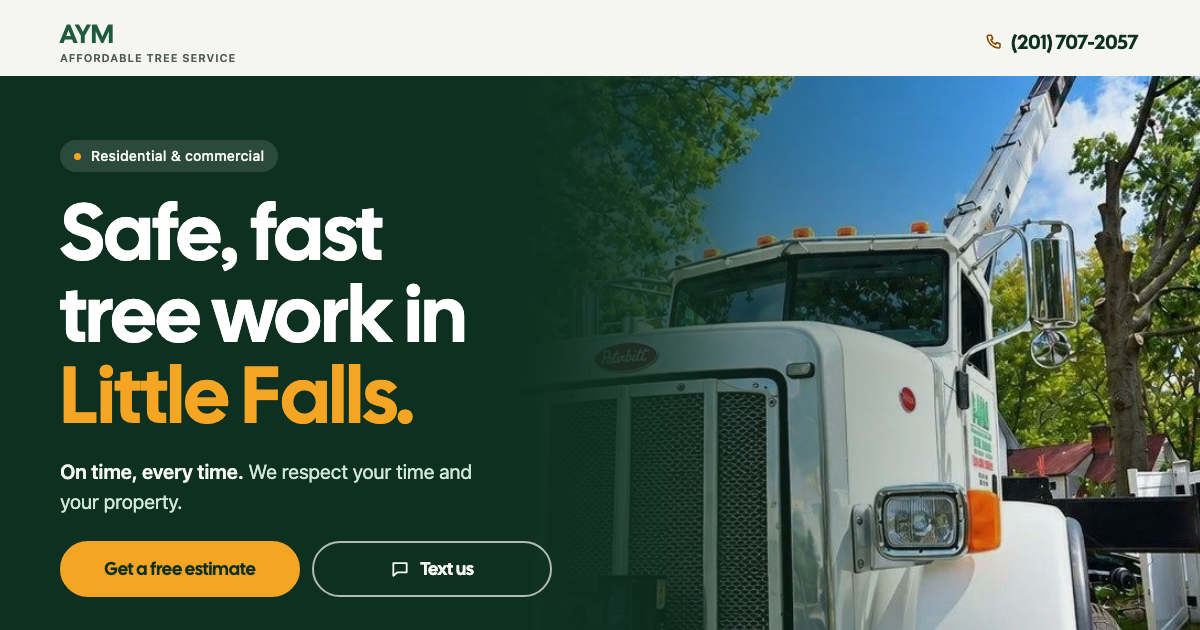
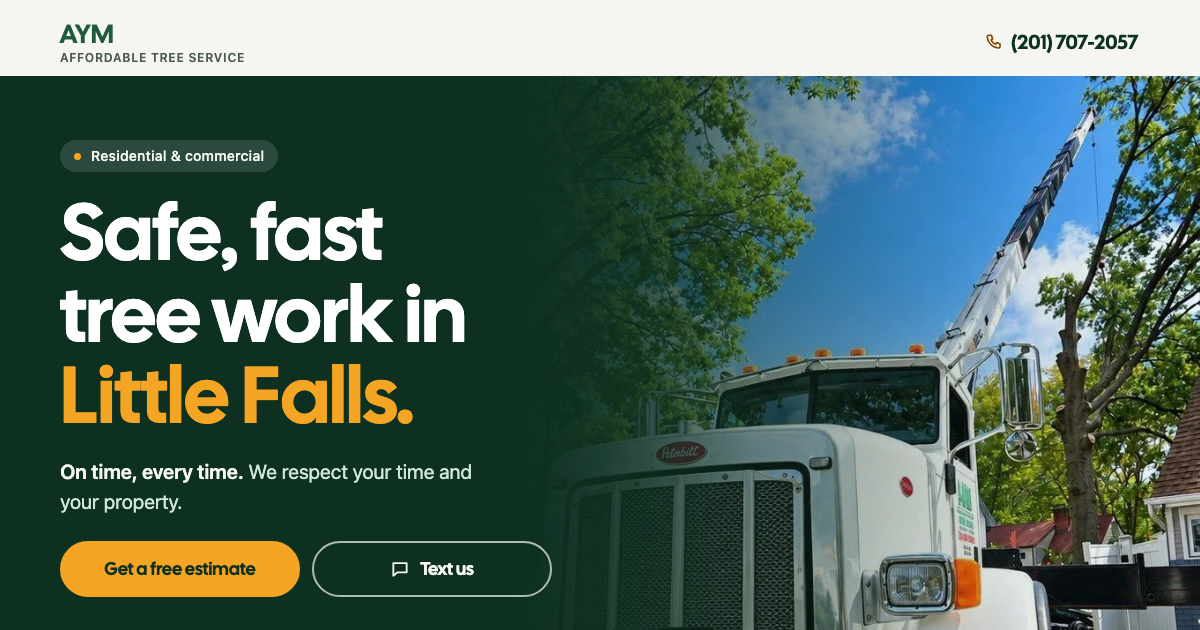
Apply Impeccable sweep: full crane photo, copy-message fallback, 320px header, focus and hover fixes, font-gated bounce-in
Claude-Session: https://claude.ai/code/session_01S1CGLVW6afEPjqbMURtKCW

diff --git a/index.html b/index.html
@@ -89,14 +89,14 @@ section{padding:64px 0}
 .top .wrap{display:flex;align-items:center;justify-content:space-between;gap:12px;min-height:64px;padding-top:max(8px,env(safe-area-inset-top))}
 .brand{display:flex;flex-direction:column;justify-content:center;min-height:44px;text-decoration:none;line-height:1}
 .brand b{font:400 22px/1 var(--display);letter-spacing:.02em;color:var(--green)}
-.brand span{font:600 11px/1 var(--text);letter-spacing:.08em;white-space:nowrap;text-transform:uppercase;color:var(--soft);margin-top:5px}
+.brand span{font:600 12px/1 var(--text);letter-spacing:.06em;white-space:nowrap;text-transform:uppercase;color:var(--soft);margin-top:5px}
 .tel{display:inline-flex;align-items:center;gap:8px;min-height:44px;padding:0 2px;font:400 17px/1 var(--display);text-decoration:none;white-space:nowrap}
 .tel svg{width:18px;height:18px;flex:none;color:var(--amber-ink)}
 
 /* ---------- Hero: their crane truck under a deep-green overlay ---------- */
 .hero{padding:0;position:relative;background:var(--deep);color:var(--on-dark);overflow:hidden;isolation:isolate}
 .hero-art{position:absolute;inset:0;z-index:-2}
-.hero-art img{width:100%;height:100%;object-fit:cover;object-position:58% 40%}
+.hero-art img{width:100%;height:100%;object-fit:cover;object-position:58% 50%}
 .hero::after{content:"";position:absolute;inset:0;z-index:-1;background:linear-gradient(180deg,rgba(14,48,33,.84) 0%,rgba(14,48,33,.76) 50%,rgba(14,48,33,.9) 100%)}
 .hero-copy{display:grid;gap:20px;justify-items:start;padding-top:56px;padding-bottom:64px}
 .hero h1{color:#fff;font-size:clamp(42px,12vw,80px);line-height:1.02;max-width:11ch}
@@ -127,15 +127,16 @@ section{padding:64px 0}
 .points{list-style:none;margin:24px 0 0;padding:0;display:grid}
 .points li{display:flex;align-items:center;gap:14px;padding:12px 0;font:400 clamp(19px,5vw,22px)/1.2 var(--display);color:var(--ink)}
 .points li+li{border-top:1px solid var(--line)}
-.points li::before{content:"";width:10px;height:10px;flex:none;border-radius:50%;background:var(--amber)}
-.photo{margin:0;border-radius:var(--r-card);overflow:hidden;background:var(--green);aspect-ratio:941/592}
+.points li::before{content:"";width:10px;height:10px;flex:none;border-radius:50%;background:var(--green)}
+.photo{margin:0;border-radius:var(--r-card);overflow:hidden;background:var(--green);aspect-ratio:941/740}
 .photo img{width:100%;height:100%;object-fit:cover}
 .fb{margin-top:16px;display:flex;align-items:center;justify-content:space-between;gap:14px;min-height:76px;padding:14px 16px 14px 22px;border-radius:20px;background:var(--green);color:var(--on-dark);text-decoration:none;font:400 clamp(19px,5.2vw,22px)/1.2 var(--display)}
 .fb:hover,.fb:focus-visible{outline:none;box-shadow:none}
 .fb .lbl{display:flex;align-items:center;gap:14px}
+.fb .lbl span{text-wrap:balance}
 .fb .lbl svg{width:28px;height:28px;flex:none;color:var(--on-dark)}
 .fb .arrow{background:rgba(255,255,255,.14)}
-.fb:focus-visible .arrow{background:var(--amber);color:var(--ink);outline:3px solid var(--focus);outline-offset:3px}
+.fb:focus-visible .arrow{background:var(--amber);color:var(--ink);outline:3px solid var(--amber);outline-offset:3px}
 
 /* ---------- How it works ---------- */
 .steps{list-style:none;margin:36px 0 0;padding:0;display:grid;gap:24px;counter-reset:s}
@@ -161,15 +162,17 @@ input[type=text]:focus,textarea:focus{outline:none;border-color:var(--focus)}
 .chips label{display:inline-flex;align-items:center;min-height:48px;padding:0 18px;border-radius:var(--pill);background:var(--field);border:2px solid transparent;font:16px/1 var(--text);color:var(--ink);cursor:pointer;margin:0;transition:border-color .15s,background-color .15s,color .15s}
 .chips input:focus-visible+label{outline:3px solid var(--focus);outline-offset:3px}
 .chips input:checked+label{background:var(--ink);color:#fff}
-.err{display:none;font-size:15px;color:var(--error)}
+.err{display:none;font-size:16px;color:var(--error)}
 .field.bad .err{display:block}
 .field.bad input[type=text],.field.bad textarea,.field.bad input[type=text]:focus,.field.bad textarea:focus{border-color:var(--error)}
 form .btn-primary{width:100%}
 form .btn-primary:focus-visible{outline:2px solid var(--focus);outline-offset:2px}
-.after{font-size:15px;color:var(--soft)}
-.sent{color:var(--ink);font-weight:600}
+.after{font-size:16px;color:var(--soft)}
+.sent{display:grid;gap:12px;color:var(--ink);font-weight:600}
+.btn-line{width:100%;background:transparent;color:var(--ink);border-color:var(--ink)}
 .sent a{white-space:nowrap;display:inline-block;padding:11px 0;margin:-11px 0}
 @media (max-width:380px){.chips label{padding:0 14px}}
+@media (max-width:359px){.tel svg{display:none}.tel{font-size:15px}.brand span{font-size:11px;letter-spacing:.02em}}
 
 /* ---------- Close ---------- */
 .close .who{margin-top:14px;font-size:clamp(18px,5vw,20px);color:var(--on-dark-soft)}
@@ -229,6 +232,8 @@ footer a{display:inline-flex;align-items:center;min-height:44px;color:var(--on-d
 .row:hover .arrow,.fb:hover .arrow{background:var(--amber);color:var(--ink)}
 input[type=text]:hover,textarea:hover{border-color:var(--focus)}
 .chips label:hover{border-color:var(--focus)}
+.chips input:checked+label:hover{border-color:var(--amber)}
+.btn-line:hover{outline:2px solid var(--focus);outline-offset:2px}
 form .btn-primary:hover{outline:2px solid var(--focus);outline-offset:2px}
 .sent a:hover{color:var(--green)}
 .bigtel:hover{color:var(--amber)}
@@ -265,7 +270,7 @@ FINISH: unreviewed and undocumented is unfinished; this build ends with the fini
 
 <main id="top">
 <section class="hero" id="hero" aria-labelledby="h1">
-  <div class="hero-art" aria-hidden="true"><img src="img/truck.webp" alt="" width="941" height="592" fetchpriority="high"></div>
+  <div class="hero-art" aria-hidden="true"><img src="img/truck.webp" alt="" width="941" height="740" fetchpriority="high"></div>
   <div class="wrap hero-copy">
     <p class="eyebrow">Residential &amp; commercial</p>
     <h1 id="h1">Safe, fast tree work in <span class="accent">Little Falls.</span></h1>
@@ -318,15 +323,15 @@ FINISH: unreviewed and undocumented is unfinished; this build ends with the fini
         <p class="lede">When a storm drops a limb on your roof, fence or driveway, call or text and we'll come out.</p>
       </div>
       <ul class="points">
-        <li>Storm damage cleanup</li>
+        <li>Fallen limbs on roofs and fences</li>
         <li>Emergency calls, 24/7</li>
         <li>Bucket truck and crane for high work</li>
       </ul>
     </div>
     <div class="rise">
-      <figure class="photo"><img src="img/truck-640.webp" srcset="img/truck-640.webp 640w, img/truck.webp 941w" sizes="(min-width:1024px) 560px, calc(100vw - 40px)" alt="AYM's white Peterbilt crane truck parked under tall trees beside a house" width="941" height="592" loading="lazy" decoding="async"></figure>
+      <figure class="photo"><img src="img/truck-640.webp" srcset="img/truck-640.webp 640w, img/truck.webp 941w" sizes="(min-width:1024px) 560px, calc(100vw - 40px)" alt="AYM's white Peterbilt crane truck with its boom raised under tall trees beside a house" width="941" height="740" loading="lazy" decoding="async"></figure>
       <a class="fb" href="https://www.facebook.com/profile.php?id=61588044986207" rel="noopener">
-        <span class="lbl"><svg viewBox="0 0 24 24" fill="currentColor" aria-hidden="true"><path d="M24 12a12 12 0 1 0-13.9 11.9v-8.4h-3V12h3V9.4c0-3 1.8-4.7 4.5-4.7 1.3 0 2.7.2 2.7.2v2.9h-1.5c-1.5 0-2 .9-2 1.9V12h3.4l-.5 3.5h-2.9v8.4A12 12 0 0 0 24 12z"/></svg>Click to see more of our work.</span>
+        <span class="lbl"><svg viewBox="0 0 24 24" fill="currentColor" aria-hidden="true"><path d="M24 12a12 12 0 1 0-13.9 11.9v-8.4h-3V12h3V9.4c0-3 1.8-4.7 4.5-4.7 1.3 0 2.7.2 2.7.2v2.9h-1.5c-1.5 0-2 .9-2 1.9V12h3.4l-.5 3.5h-2.9v8.4A12 12 0 0 0 24 12z"/></svg><span>Click to see more of our work.</span></span>
         <span class="arrow" aria-hidden="true"><svg><use href="#i-arrow"/></svg></span>
       </a>
     </div>
@@ -352,7 +357,7 @@ FINISH: unreviewed and undocumented is unfinished; this build ends with the fini
       <p class="lede">Not sure what it needs? Describe it and we'll tell you.</p>
     </div>
     <form id="quoteForm" class="rise" novalidate>
-      <fieldset class="field" id="f-job">
+      <fieldset class="field" id="f-job" aria-describedby="e-job">
         <legend>What do you need?</legend>
         <div class="chips">
           <input type="checkbox" name="job" id="j1" value="Tree removal"><label for="j1">Tree removal</label>
@@ -378,7 +383,8 @@ FINISH: unreviewed and undocumented is unfinished; this build ends with the fini
         <textarea id="what" name="what" maxlength="600" placeholder="How big it is, how close to the house, if it's urgent…"></textarea>
       </div>
       <button class="btn btn-primary" type="submit"><svg aria-hidden="true"><use href="#i-chat"/></svg>Text this to AYM</button>
-      <p class="sent" id="sent" role="status" hidden>Didn't open your messages? Call us at <a href="tel:+12017072057">(201) 707-2057</a>.</p>
+      <div class="sent" id="sent" role="status" hidden><p>Didn't open your messages? Copy it and text it to <a href="tel:+12017072057">(201) 707-2057</a>.</p><button class="btn btn-line" type="button" id="copyMsg">Copy message</button></div>
+      <noscript><p class="after">Or call or text <a href="tel:+12017072057">(201) 707-2057</a>.</p></noscript>
       <p class="after">Opens your messages with this written out. Add photos of the tree before you send.</p>
     </form>
   </div>
@@ -388,7 +394,7 @@ FINISH: unreviewed and undocumented is unfinished; this build ends with the fini
   <div class="wrap">
     <div class="rise">
       <h2 id="h-close">Don't wait, <span class="accent">call today.</span></h2>
-      <p class="who">A Y M Affordable Tree Service · Little Falls, NJ. Homes and businesses, free estimates.</p>
+      <p class="who">Homes and businesses in Little Falls, NJ. Free estimates.</p>
     </div>
     <a class="bigtel rise" href="tel:+12017072057"><svg aria-hidden="true"><use href="#i-phone"/></svg>(201) 707-2057</a>
   </div>
@@ -418,6 +424,10 @@ document.documentElement.classList.add('js');
 (function(){
   var h=document.getElementById('h1');
   if(!h||matchMedia('(prefers-reduced-motion: reduce)').matches)return;
+  // wait (briefly) for Cal Sans so the letters don't reflow mid-bounce when the font swaps in
+  h.style.visibility='hidden';
+  if(document.fonts&&document.fonts.load){Promise.race([document.fonts.load('400 1em "Cal Sans"'),new Promise(function(r){setTimeout(r,700)})]).then(run)}else run();
+  function run(){
   var plain=h.innerHTML,i=0,last=null;
   h.setAttribute('aria-label',h.textContent.replace(/\s+/g,' ').trim());
   function split(node,into){
@@ -433,9 +443,12 @@ document.documentElement.classList.add('js');
       }else if(n.nodeType===1){var copy=n.cloneNode(false);split(n,copy);into.appendChild(copy)}
     });
   }
-  var frag=document.createDocumentFragment();split(h,frag);h.textContent='';h.appendChild(frag);
+  var frag=document.createDocumentFragment();split(h,frag);h.textContent='';h.appendChild(frag);h.style.visibility='';
   // once the last letter lands, put the plain heading back so kerning and text selection return
-  if(last)last.addEventListener('animationend',function(){h.innerHTML=plain;h.removeAttribute('aria-label')});
+  var done=false;function restore(){if(done)return;done=true;h.innerHTML=plain;h.removeAttribute('aria-label')}
+  if(last)last.addEventListener('animationend',restore);
+  setTimeout(restore,1000+i*20+300); // safety net if animationend never fires (hidden tab)
+  }
 })();
 
 /* ===== Service rows pre-tick the matching job in the form ===== */
@@ -451,6 +464,7 @@ document.documentElement.classList.add('js');
 /* ===== Estimate form: composes a text to AYM ===== */
 (function(){
   var form=document.getElementById('quoteForm');if(!form)return;
+  var lastMsg='';
   function val(id){return document.getElementById(id).value.trim()}
   form.addEventListener('input',function(e){var f=e.target.closest('.field');if(f&&f.classList.contains('bad')&&(e.target.checked||(e.target.value||'').trim()))f.classList.remove('bad');if(e.target.id==='what'&&e.target.value.trim())document.getElementById('f-job').classList.remove('bad')});
   form.addEventListener('submit',function(e){
@@ -468,10 +482,13 @@ document.documentElement.classList.add('js');
     msg+='.';
     if(where)msg+=' Where: '+where+'.';
     if(what)msg+=' '+what;
+    lastMsg=msg;
     location.href='sms:'+CONFIG.PHONE+'?&body='+encodeURIComponent(msg);
     // if no messages app opened (desktop, some in-app browsers), say what to do instead
     setTimeout(function(){document.getElementById('sent').hidden=false},900);
   });
+  // clipboard can be blocked in in-app browsers, so fall back to a prompt they can copy from
+  document.getElementById('copyMsg').addEventListener('click',function(){var b=this;(navigator.clipboard?navigator.clipboard.writeText(lastMsg):Promise.reject()).then(function(){b.textContent='Copied'},function(){prompt('Copy this message:',lastMsg)})});
 })();
 
 /* ===== Floating text circle: shows after the hero, hides while the form is on screen ===== */
